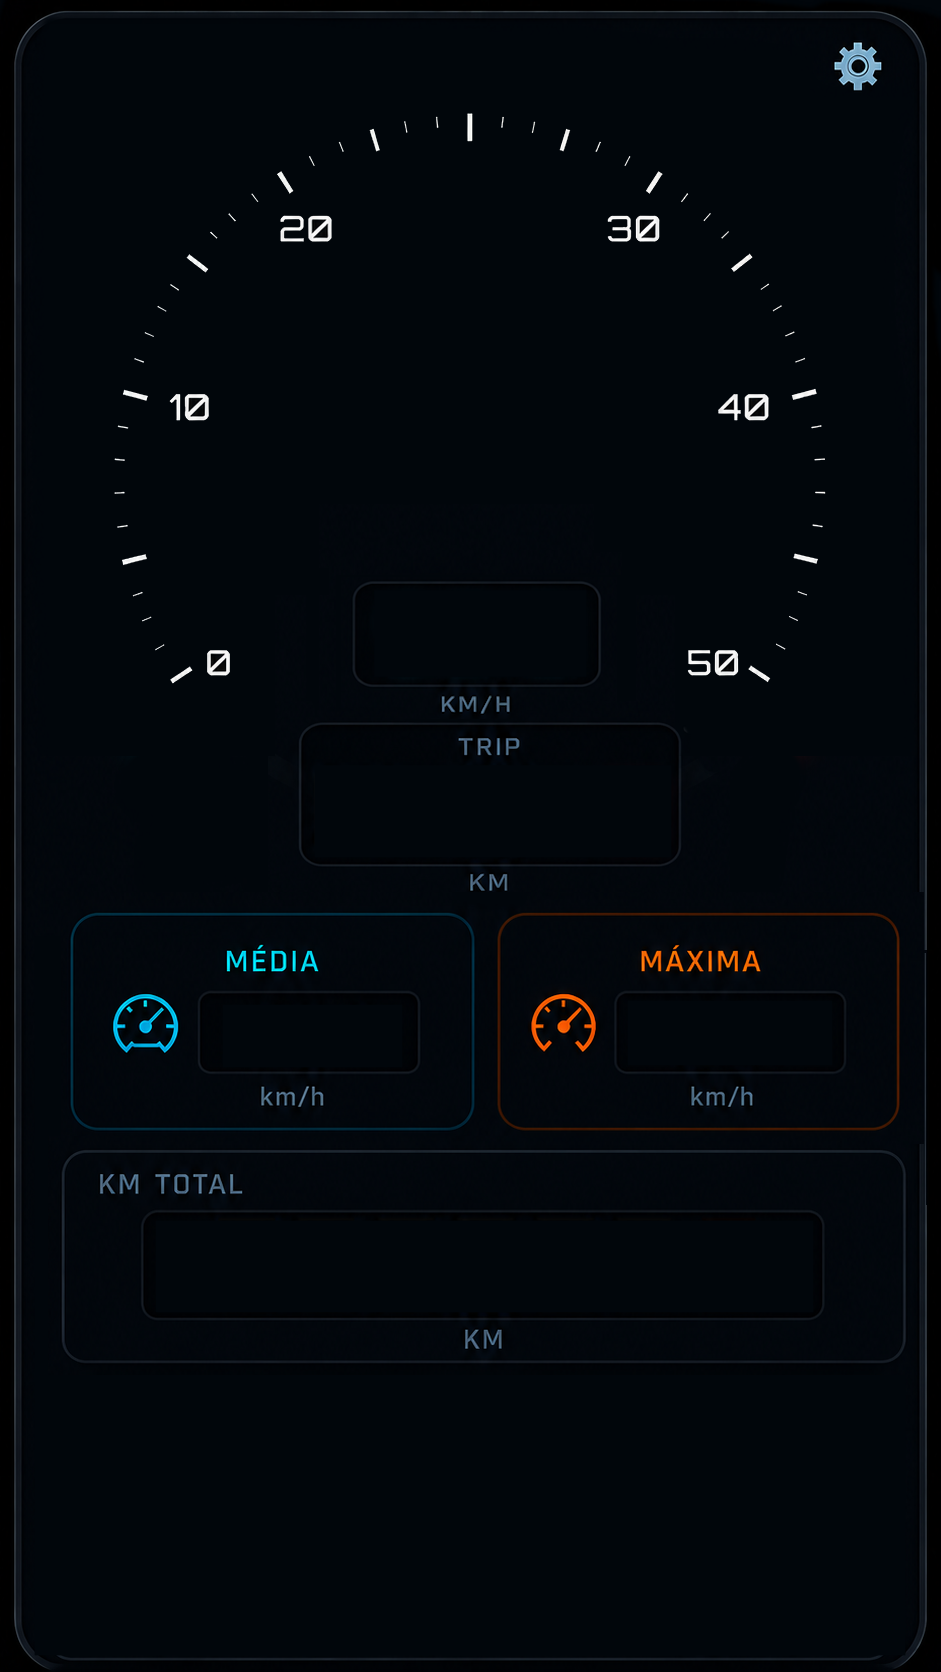
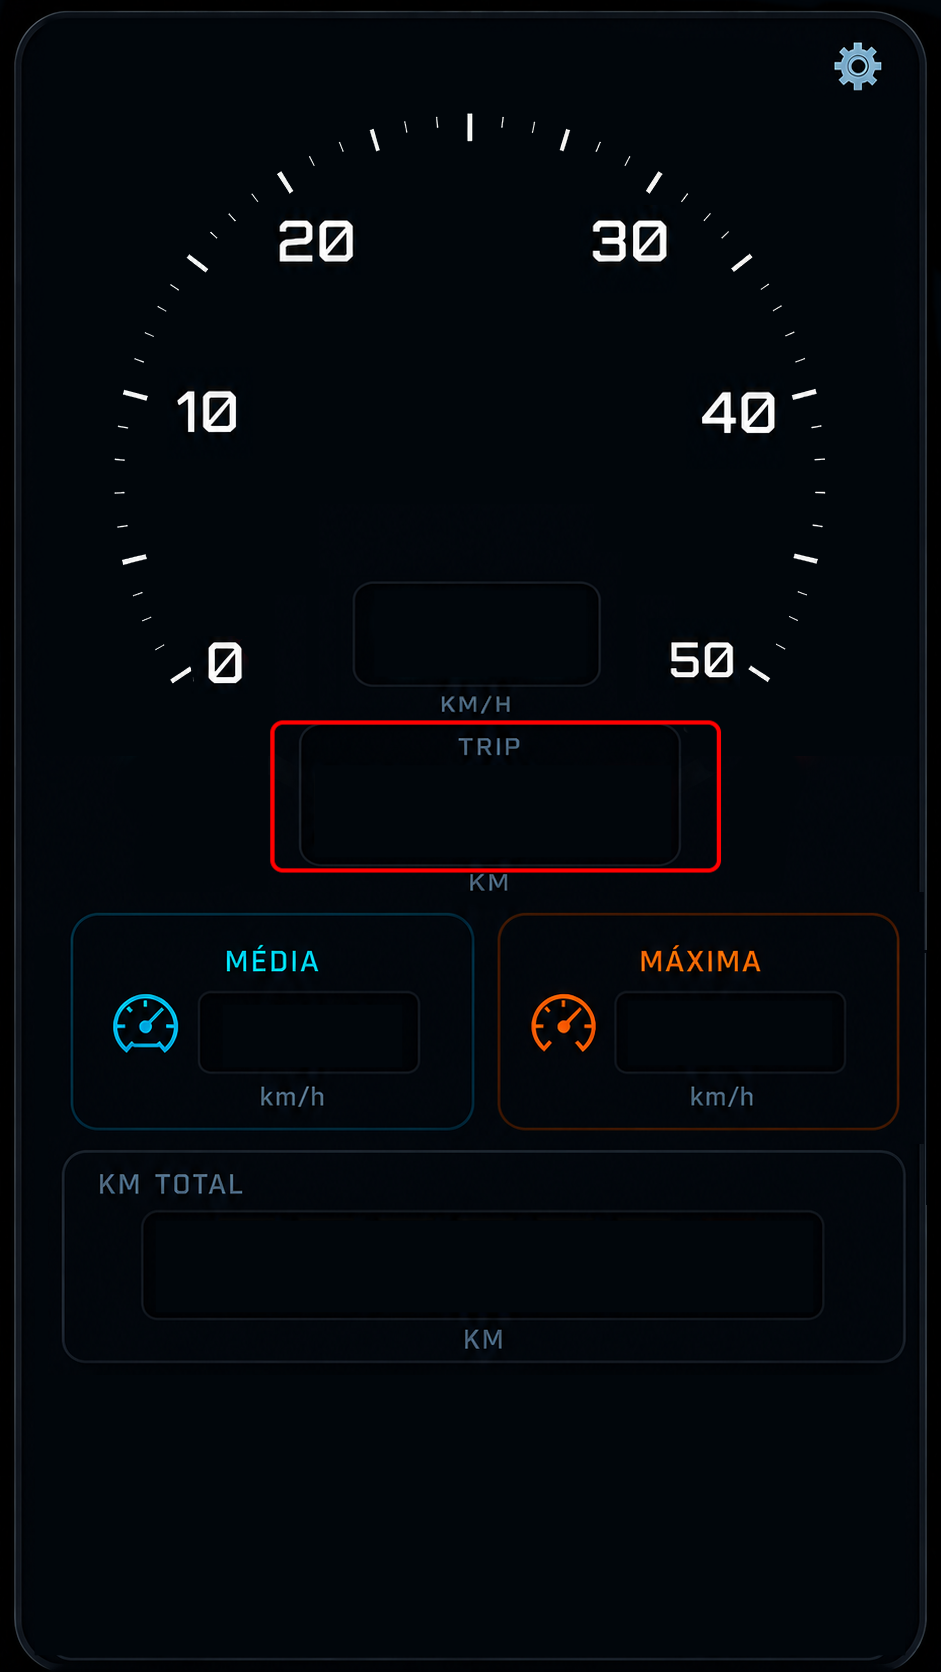
Correção trip tananho do rolete fixado troca de fonte do vel digital troca do sino por plac de alerta

diff --git a/index.html b/index.html
@@ -6,6 +6,9 @@
     <title> E-Bike GPS - Painel Pro </title>
     <link href="https://fonts.googleapis.com/css2?family=Orbitron:wght@700;900&family=Share+Tech+Mono&display=swap" rel="stylesheet">
     <style>
+	
+		@import url('https://fonts.cdnfonts.com/css/digital-7-mono');
+	
         * {
             box-sizing: border-box;
             margin: 0;
@@ -74,21 +77,35 @@
             stroke-width: 2.5;
         }
 
-        /* Ícone do alarme / sino pulsante */
-        .bell-icon {
-            font-size: 32px;
-            transition: all 0.3s;
-			display: none;
+        /* =====================================================
+           PLACA DO LIMITE DE VELOCIDADE
+           - substitui o sino
+           - fica escondida normalmente
+           - aparece somente quando o alerta é acionado
+           ===================================================== */
+        .speed-limit-sign {
+            display: none;
+            opacity: 0.9;
+            transition: opacity 0.3s, filter 0.3s;
         }
 
-        .bell-alarm {
-		    display: inline-block; 
-            animation: pulse-bell 0.4s infinite alternate;
+        /* Mantemos a classe bell-alarm porque a lógica existente
+           já usa add/remove dessa classe no alerta. */
+        .speed-limit-sign.bell-alarm {
+            display: block;
+            animation: pulse-limit-sign 0.4s infinite alternate;
         }
 
-        @keyframes pulse-bell {
-            from { transform: scale(1); filter: drop-shadow(0 0 2px red); }
-            to { transform: scale(1.4); filter: drop-shadow(0 0 12px red); }
+        @keyframes pulse-limit-sign {
+            from {
+                opacity: 0.85;
+                filter: drop-shadow(0 0 3px rgba(255, 0, 0, 0.55));
+            }
+
+            to {
+                opacity: 1;
+                filter: drop-shadow(0 0 12px rgba(255, 0, 0, 1));
+            }
         }
 
         /* --- OVERLAY 2: VELOCIDADE CENTRAL DIGITAL --- */
@@ -102,9 +119,10 @@
             align-items: center;
             justify-content: center;
             color: #00d8ff;
-            font-size: 1.5rem;
+		    font-family: 'Digital-7 Mono', sans-serif;
+            font-size: 42px;
             font-weight: 900;
-            text-shadow: 0 0 10px rgba(0, 216, 255, 0.6);
+            text-shadow: 0 0 10px rgba(0, 216, 255, 0.6);			
         }
 
         /* --- OVERLAY 3: TRIP MECÂNICO --- */
@@ -165,10 +183,12 @@
 
         /* DÍGITOS MECÂNICOS SOBREPOSTOS */
         .digit {
-            width: 40px;  /* Largura de cada caixinha */
+		
+            flex: 0 0 40px;  /* Largura de cada caixinha */
             height: 38px; /* Altura de cada caixinha */
             background: linear-gradient(180deg, #f0f2f5 0%, #c4c8ce 50%, #83888f 100%); /* Efeito 3D */
             color: #0d0f12; /* Cor do número */
+		
             font-size: 1.8rem;
             font-weight: 900;
             border-radius: 3px;
@@ -409,10 +429,30 @@
 
         <!-- OVERLAY 1: PONTEIRO ANALÓGICO SVG -->
         <svg class="gauge-svg" viewBox="0 0 380 680">
-            <!-- Ícone do Sino de Alerta -->
-            <g transform="translate(190, 80)">
-                <text class="bell-icon" id="bell-element" x="0" y="60" text-anchor="middle">🔔</text>
-            </g>	
+            <!-- =================================================
+                 PLACA DO LIMITE DE VELOCIDADE
+                 Aparece somente durante o alerta.
+                 O id "bell-element" foi mantido de propósito para
+                 preservar toda a lógica existente do alarme.
+                 ================================================= -->
+            <g
+                id="bell-element"
+                class="speed-limit-sign"
+                transform="translate(190, 140)"
+            >
+                <circle cx="0" cy="0" r="22" fill="#ffffff" />
+                <circle cx="0" cy="0" r="20" fill="none" stroke="#ff2020" stroke-width="5" />
+                <text
+                    id="speed-limit-sign-value"
+                    x="0"
+                    y="7"
+                    text-anchor="middle"
+                    font-family="Orbitron, sans-serif"
+                    font-size="17"
+                    font-weight="900"
+                    fill="#111111"
+                >24</text>
+            </g>
 
 			<defs>
 					<!-- Definição do Gradiente Néon -->
@@ -838,6 +878,7 @@
         const tripContainer = document.getElementById('trip-container');
         const odoWindow = document.getElementById('odo-window');
         const bellElement = document.getElementById('bell-element');
+        const speedLimitSignValue = document.getElementById('speed-limit-sign-value');
 
         const modalSettings = document.getElementById('modal-settings');
         const btnOpenSettings = document.getElementById('open-settings');
@@ -873,11 +914,12 @@
 			// Garante valor positivo
 			const val = Math.max(0, value);
 			
-			// Separa a parte inteira e a decimal (7 inteiros + 1 decimal vermelho = 8 dígitos no total)
-			const inteiro = Math.floor(val).toString().padStart(6, '0'); // 7 dígitos para os inteiros
+			// Separa a parte inteira e a decimal (6 inteiros + 1 decimal vermelho = 7 dígitos no total)
+			//  000000-0
+			const inteiro = Math.floor(val).toString().padStart(6, '0'); // 6 dígitos para os inteiros
 			const decimal = Math.floor((val % 1) * 10).toString();       // 1 dígito para o decimal vermelho
 			
-			const digits = inteiro + decimal; // Exemplo para 12.4 km -> "00000124"
+			const digits = inteiro + decimal; // Exemplo para 12.4 km -> "0000124"
 			
 			const elements = odoWindow.querySelectorAll('.digit');
 			elements.forEach((el, idx) => { 
@@ -887,6 +929,7 @@
 
         updateTripDisplays(tripOdometer);
         updateMechanicalOdometer(totalOdometer);
+        speedLimitSignValue.innerText = Math.round(speedLimit);
         inputVolume.value = Math.round(alarmVolume * 100);
         volumeDisplay.innerText = `${Math.round(alarmVolume * 100)}%`;
         updateRouteStatus();
@@ -1116,6 +1159,7 @@ function updateSpeed(speed) {
 
             inputGaugeMax.value = gaugeMaxSpeed;
             inputLimit.value = speedLimit;
+            speedLimitSignValue.innerText = Math.round(speedLimit);
 
             localStorage.setItem('ebike_total_odo', totalOdometer);
             localStorage.setItem('ebike_speed_limit', speedLimit);
